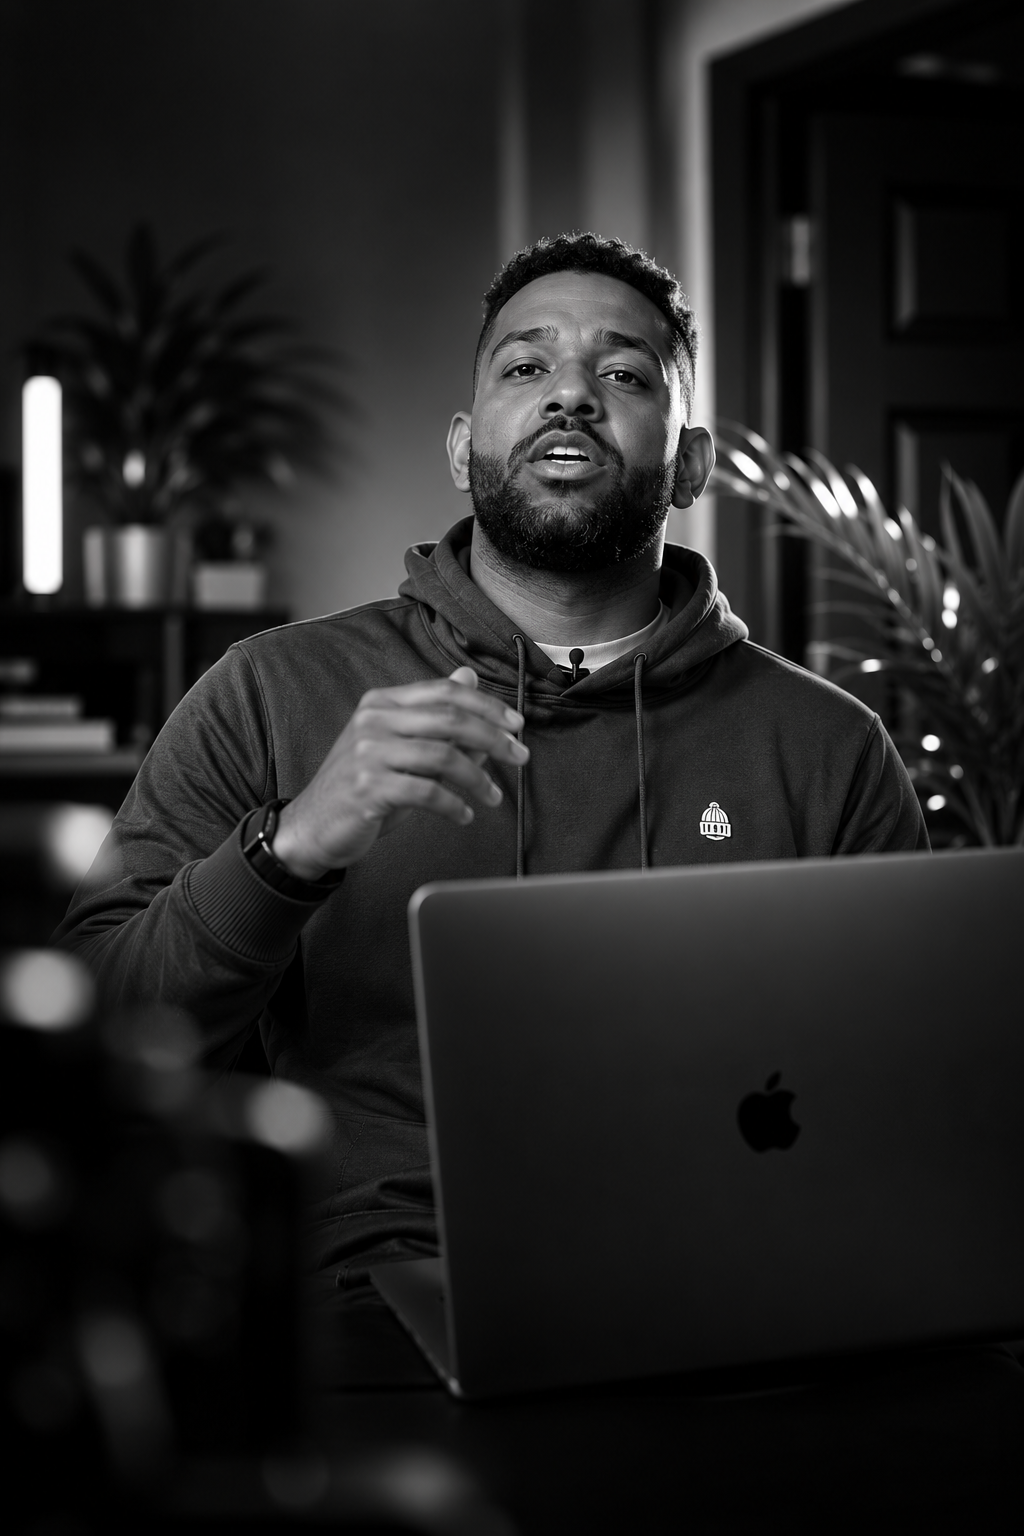
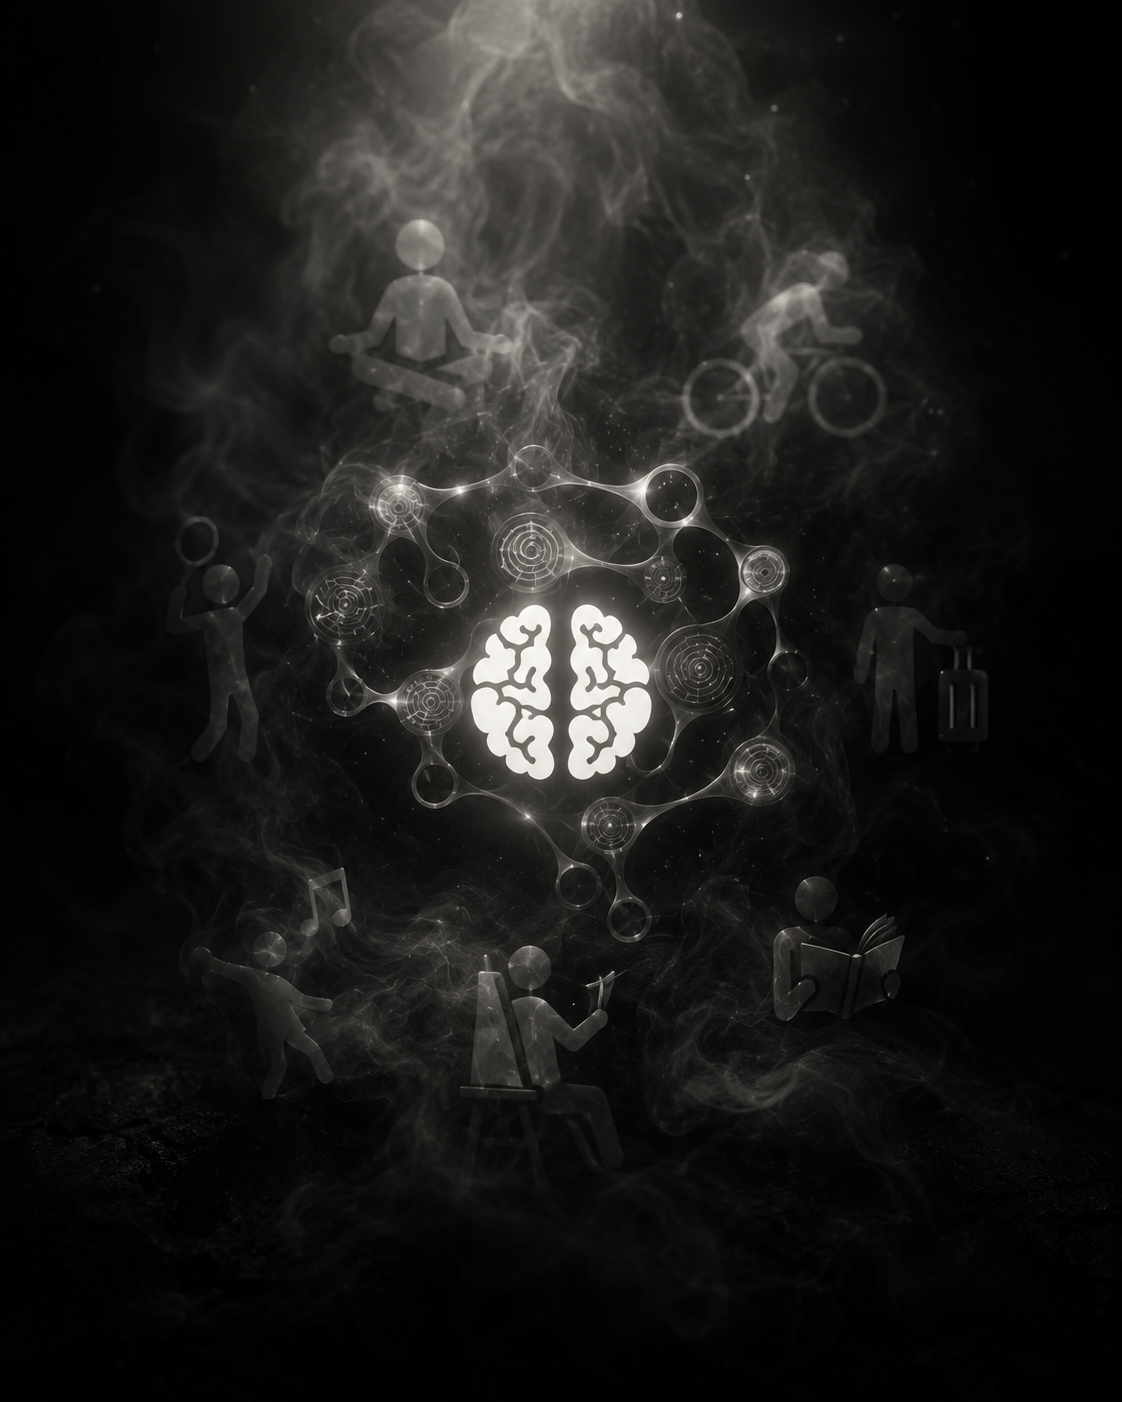
update video editor portfolio

diff --git a/app/components/Process.tsx b/app/components/Process.tsx
@@ -1,22 +1,28 @@
+import Image from "next/image";
+
 const steps = [
   {
     number: "01",
     title: "Brief",
+    icon: "/icons/brief.png",
     text: "We discuss the project goal, style, references, footage details and final output format.",
   },
   {
     number: "02",
     title: "Edit",
+    icon: "/icons/edit2.png",
     text: "The raw footage is shaped into a clean story with pacing, cuts, music and visual flow.",
   },
   {
     number: "03",
     title: "Review",
+    icon: "/icons/review.png",
     text: "You review the first version and share feedback for changes, timing or visual direction.",
   },
   {
     number: "04",
     title: "Final Delivery",
+    icon: "/icons/final-delivery.png",
     text: "The final video is exported in the required format, ready for social media, YouTube or campaigns.",
   },
 ];
@@ -46,14 +52,22 @@ export default function Process() {
           {steps.map((step) => (
             <div
               key={step.number}
-              className="gsap-card transform-gpu rounded-3xl border border-black/10 bg-[#f5f5f5] p-8 transition-colors duration-300 hover:bg-black hover:text-white"
+              className="gsap-card group transform-gpu rounded-3xl border border-black/10 bg-[#f5f5f5] p-8 transition-colors duration-300 hover:bg-black hover:text-white"
             >
-              <div className="mb-16 flex items-center justify-between">
-                <span className="text-sm font-medium text-black/40 transition-colors duration-300 group-hover:text-white/40">
+              <div className="mb-12 flex items-start justify-between">
+                <div className="flex h-16 w-16 items-center justify-center rounded-2xl border border-black/10 bg-white transition-colors duration-300 group-hover:border-white/10 group-hover:bg-white">
+                  <Image
+                    src={step.icon}
+                    alt={`${step.title} icon`}
+                    width={34}
+                    height={34}
+                    className="object-contain grayscale"
+                  />
+                </div>
+
+                <span className="text-sm font-medium text-black/35 transition-colors duration-300 group-hover:text-white/35">
                   {step.number}
                 </span>
-
-                <div className="h-2 w-2 rounded-full bg-black/30 transition-colors duration-300 group-hover:bg-white/50" />
               </div>
 
               <h3 className="text-2xl font-medium tracking-tight">

diff --git a/app/components/SelectedWorks.tsx b/app/components/SelectedWorks.tsx
@@ -39,7 +39,7 @@ const works = [
     category: "Brand Content",
     description: "Clean personal brand visuals with strong structure and premium feel.",
     image: "/images/work-5.jpg",
-    vimeoUrl: "https://player.vimeo.com/video/1068741094",
+    vimeoUrl: "https://player.vimeo.com/video/1068740315",
   },
   {
     title: "Social Media Edit",